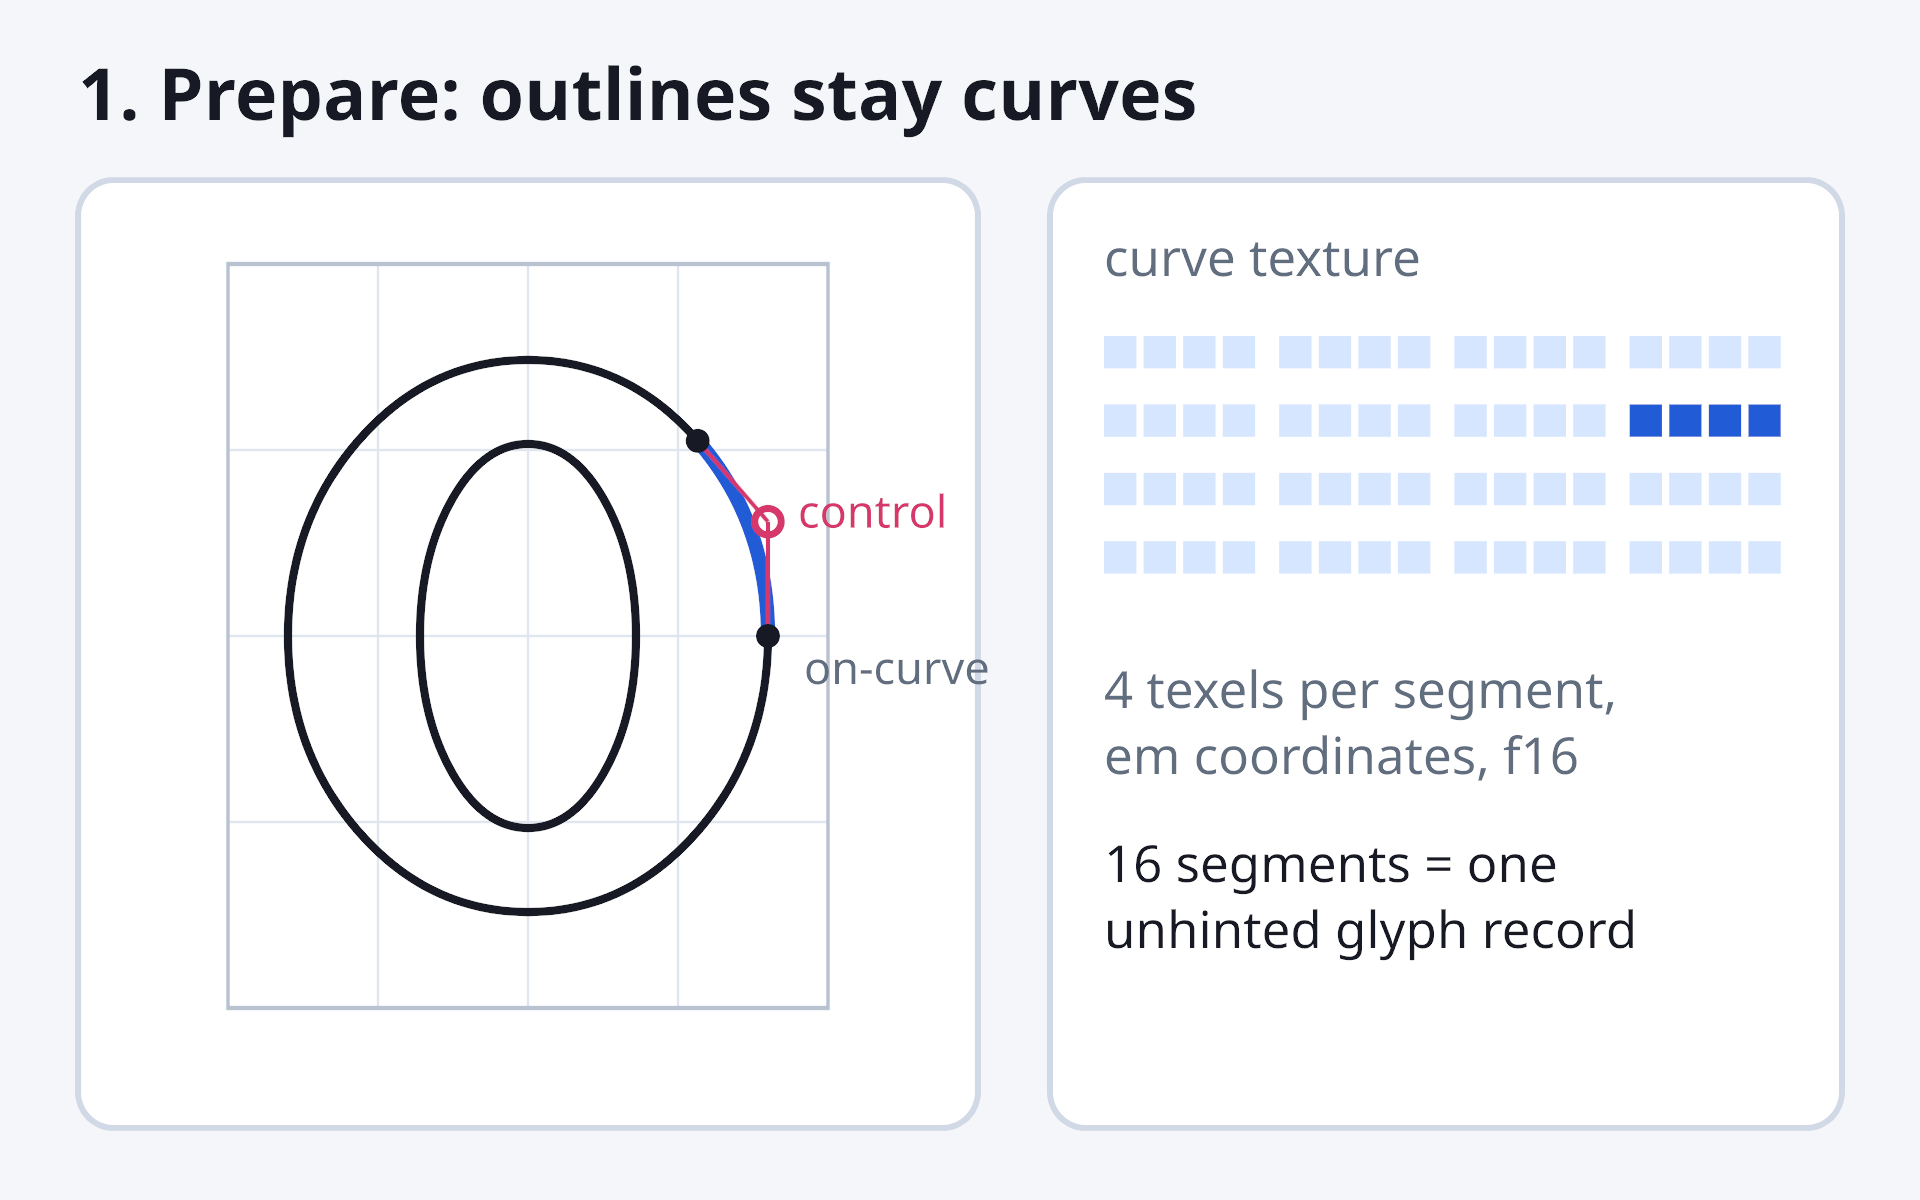
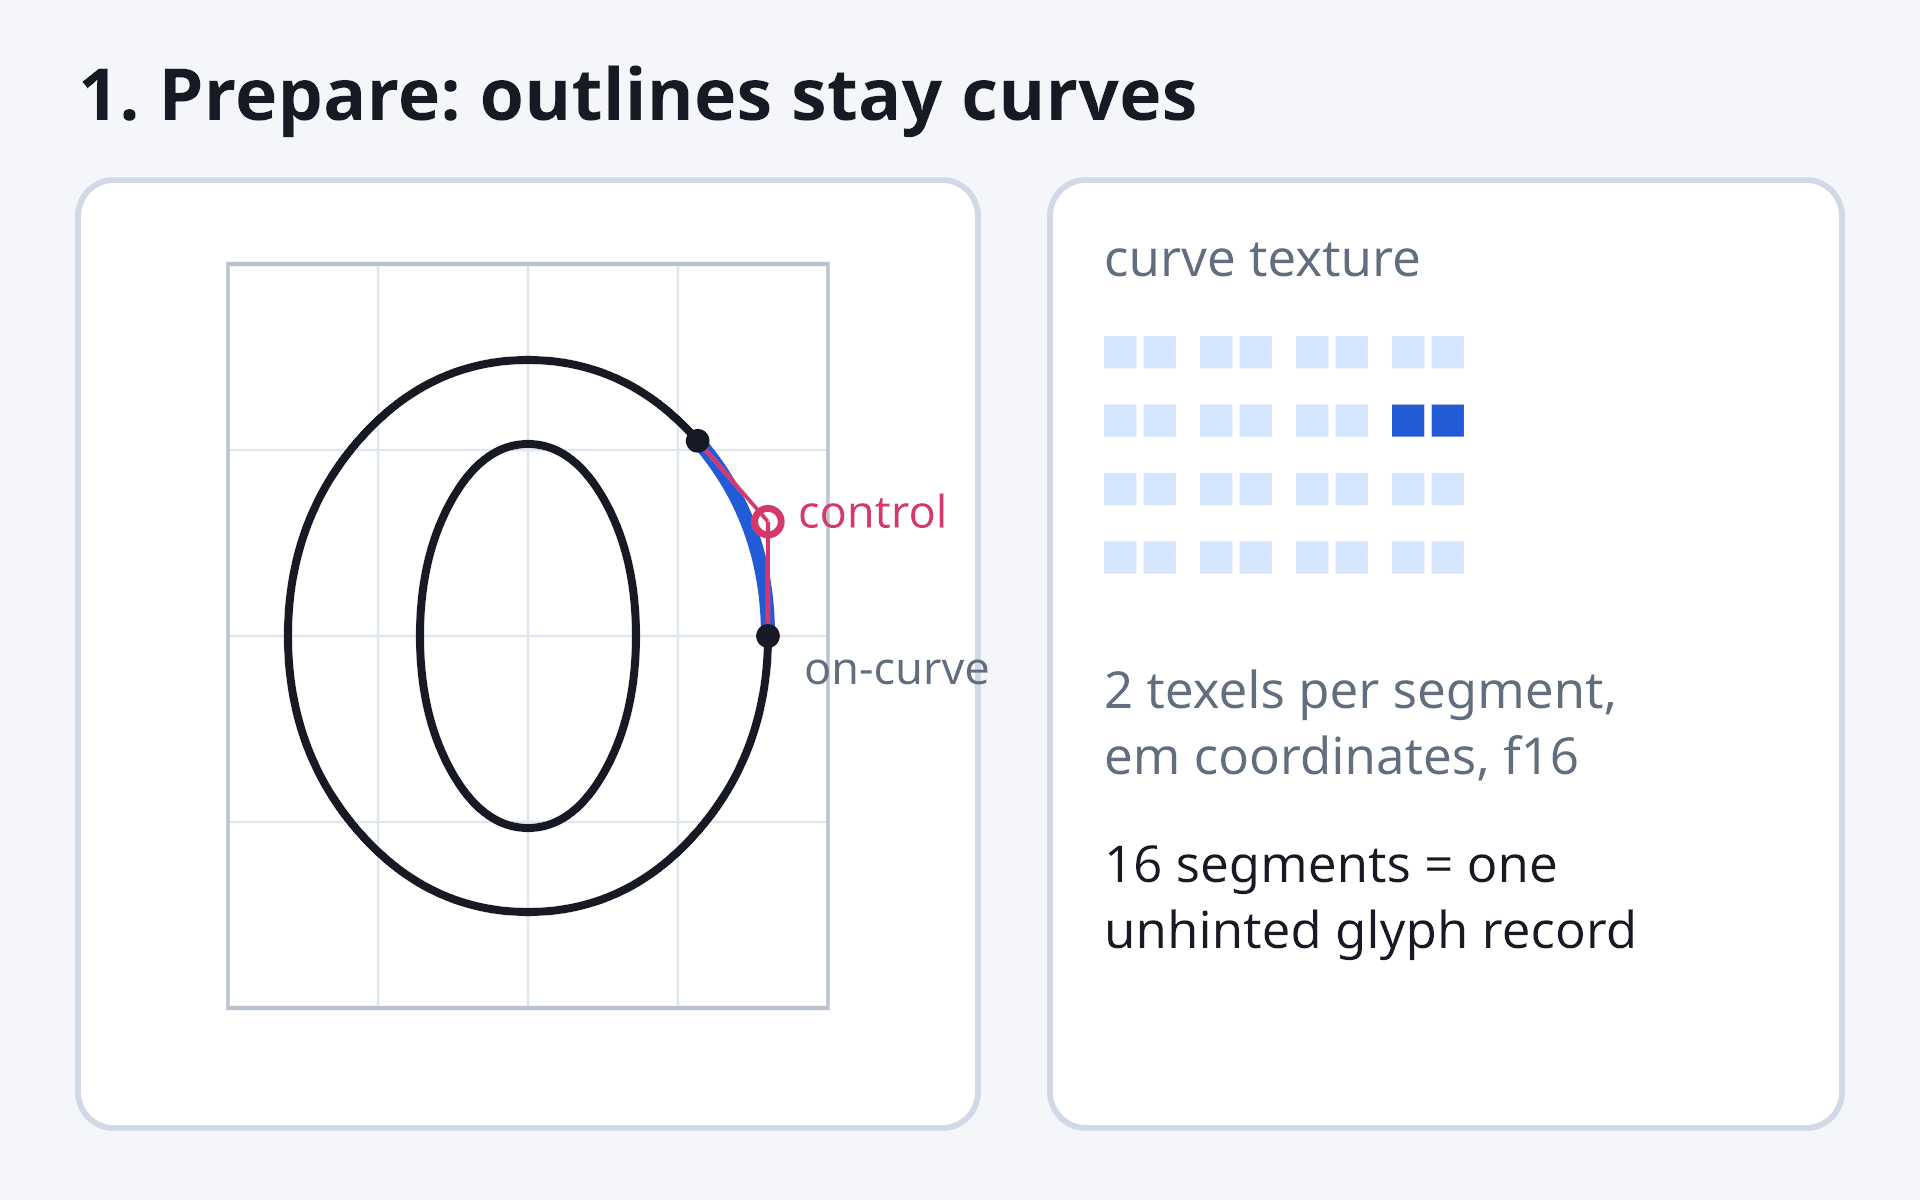
docs(readme): show dense font curve encoding

Changed region(s): [[0.5938, 0.3392, 0.9375, 0.4933], [0.5938, 0.2775, 0.9375, 0.3083], [0.5625, 0.555, 0.5938, 0.5858]]

diff --git a/README.md b/README.md
@@ -167,8 +167,8 @@ them in groups of 256; flat typed-buffer backends address them with fixed
 page strides. Either path avoids eviction solely because one texture array
 is full. The default packer considers only the 12 most recent pages and
 chooses the tightest fit across both curve and band capacity; set
-`Atlas.Packing{ .recent_page_limit = 1 }` selects tail-only placement. The bounded window makes
-insertion cost independent of total atlas size.
+`Atlas.Packing{ .recent_page_limit = 1 }` selects tail-only placement. The
+bounded window makes insertion cost independent of total atlas size.
 
 On a direct append-only atlas child, `planDelta` emits only changed page
 regions and appended side data. Layer-info and image storage are fixed
@@ -204,11 +204,12 @@ uses a conservative error bound with a default tolerance of `1/8192` in
 prepared coordinates (one em for normalized font outlines) and a maximum
 subdivision depth of 10.
 
-Every prepared line, quadratic, or conic segment occupies four `RGBA16F`
-texels. Unhinted and autohint records are ppem-independent. TrueType
-grid-fitted curve records are ppem-specific.
+Font lines and quadratics use two `RGBA16F` texels per segment. General paths
+use four so they can carry explicit segment kind and rational-conic metadata.
+Unhinted and autohint records are ppem-independent. TrueType grid-fitted
+curve records are ppem-specific.
 
-<img src="assets/algorithm-curves.png?raw=true" alt="a glyph outline with one highlighted quadratic segment, and its four texels in the curve texture" width="640">
+<img src="assets/algorithm-curves.png?raw=true" alt="a glyph outline with one highlighted quadratic segment, and its two texels in the dense font curve texture" width="640">
 
 **2. Prepare: bands index the curves.** The record's box is divided into
 equal horizontal and vertical bands. Each band lists the segments whose
